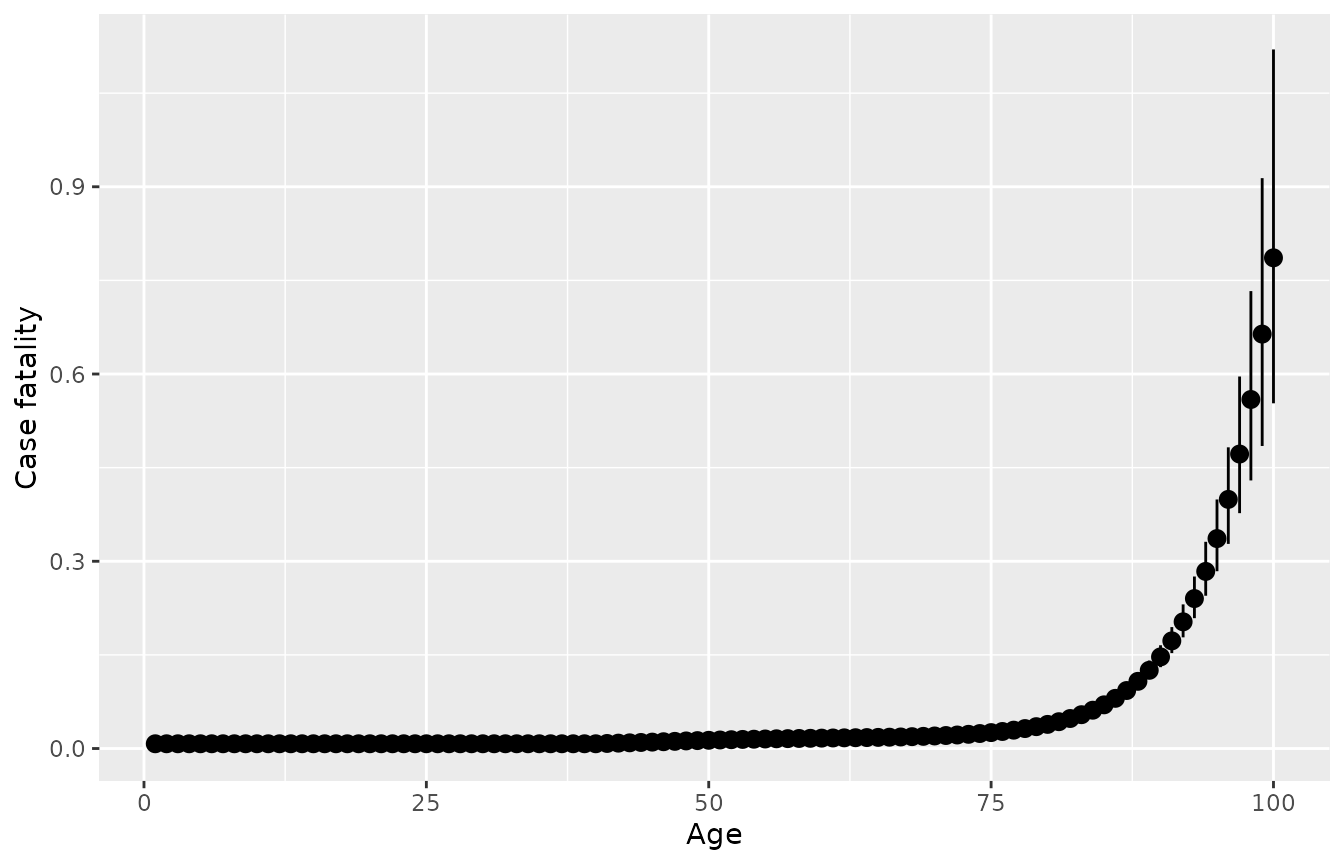
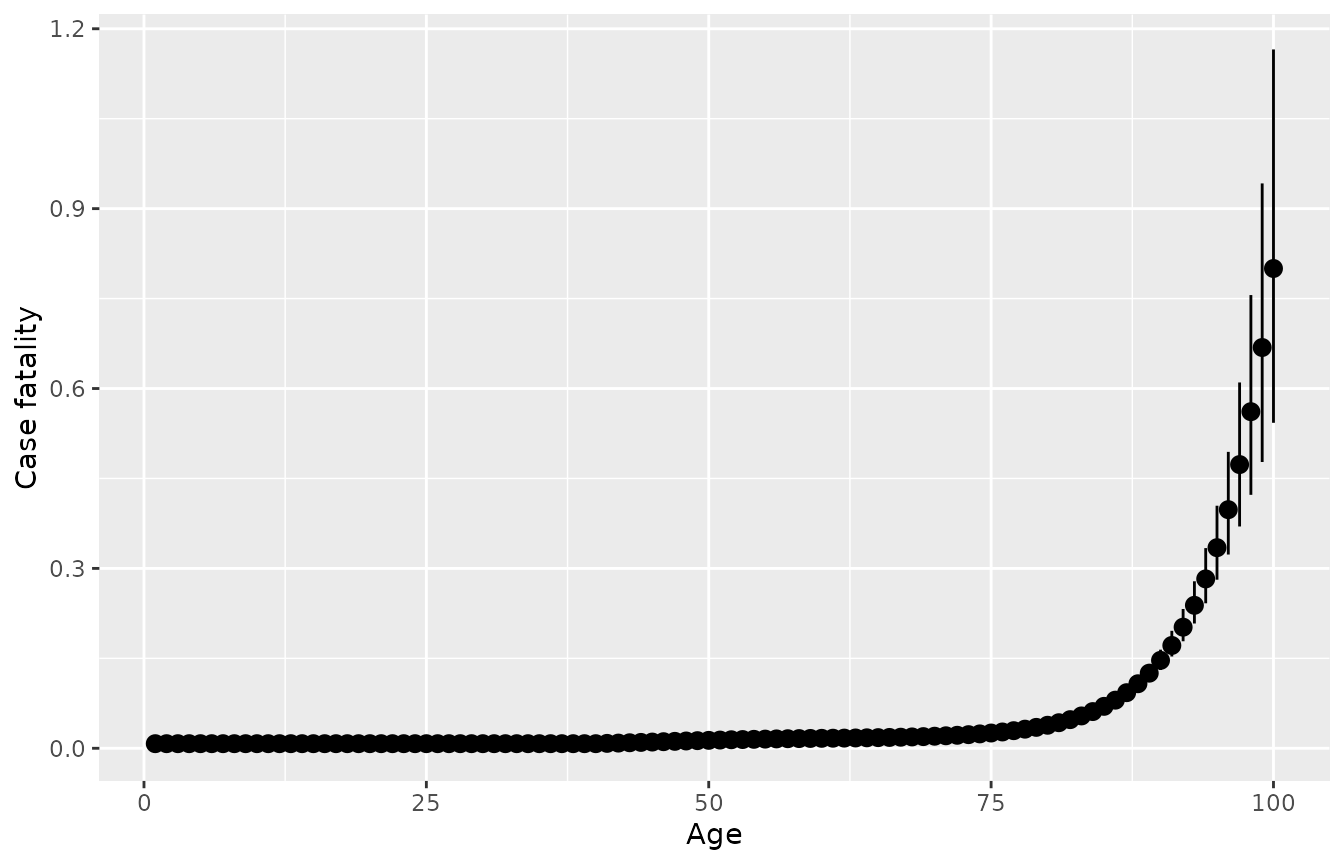
Built site for disbayes: 0.1@de2c85a

diff --git a/articles/disbayes.html b/articles/disbayes.html
@@ -327,12 +327,12 @@
   <span class="fu"><a href="https://dplyr.tidyverse.org/reference/filter.html">filter</a></span><span class="op">(</span><span class="va">var</span><span class="op">==</span><span class="st">"cf"</span>, <span class="fu"><a href="https://dplyr.tidyverse.org/reference/between.html">between</a></span><span class="op">(</span><span class="va">age</span>,<span class="fl">60</span>,<span class="fl">65</span><span class="op">)</span><span class="op">)</span> <span class="op">%&gt;%</span>
   <span class="fu"><a href="https://dplyr.tidyverse.org/reference/select.html">select</a></span><span class="op">(</span><span class="va">age</span>, <span class="va">`25%`</span>, <span class="va">`50%`</span>, <span class="va">`75%`</span><span class="op">)</span></code></pre></div>
 <pre><code>##   age        25%        50%        75%
-## 1  60 0.01546946 0.01665602 0.01780302
-## 2  61 0.01573910 0.01690169 0.01797629
-## 3  62 0.01597005 0.01711690 0.01816577
-## 4  63 0.01622548 0.01731684 0.01836011
-## 5  64 0.01653682 0.01755091 0.01859582
-## 6  65 0.01680274 0.01784521 0.01887668</code></pre>
+## 1  60 0.01544119 0.01660143 0.01779604
+## 2  61 0.01572050 0.01680049 0.01797889
+## 3  62 0.01598498 0.01697820 0.01815839
+## 4  63 0.01616237 0.01720882 0.01837684
+## 5  64 0.01645707 0.01746395 0.01859512
+## 6  65 0.01676725 0.01776433 0.01882658</code></pre>
 <p>The default <code>plot</code> method for objects returned by <code>disbayes</code> plots the posterior summaries for case fatality, allowing a quick check of the model results. Or do <code><a href="https://rdrr.io/r/graphics/plot.default.html">plot(..., variable="inc")</a></code> for incidence. The function returns a <code>ggplot2</code> object that can be modified with <code>ggplot2</code> functions, e.g. to add axis labels.</p>
 <div class="sourceCode" id="cb18"><pre class="downlit sourceCode r">
 <code class="sourceCode R"><span class="kw"><a href="https://rdrr.io/r/base/library.html">library</a></span><span class="op">(</span><span class="va"><a href="https://ggplot2.tidyverse.org">ggplot2</a></span><span class="op">)</span>
